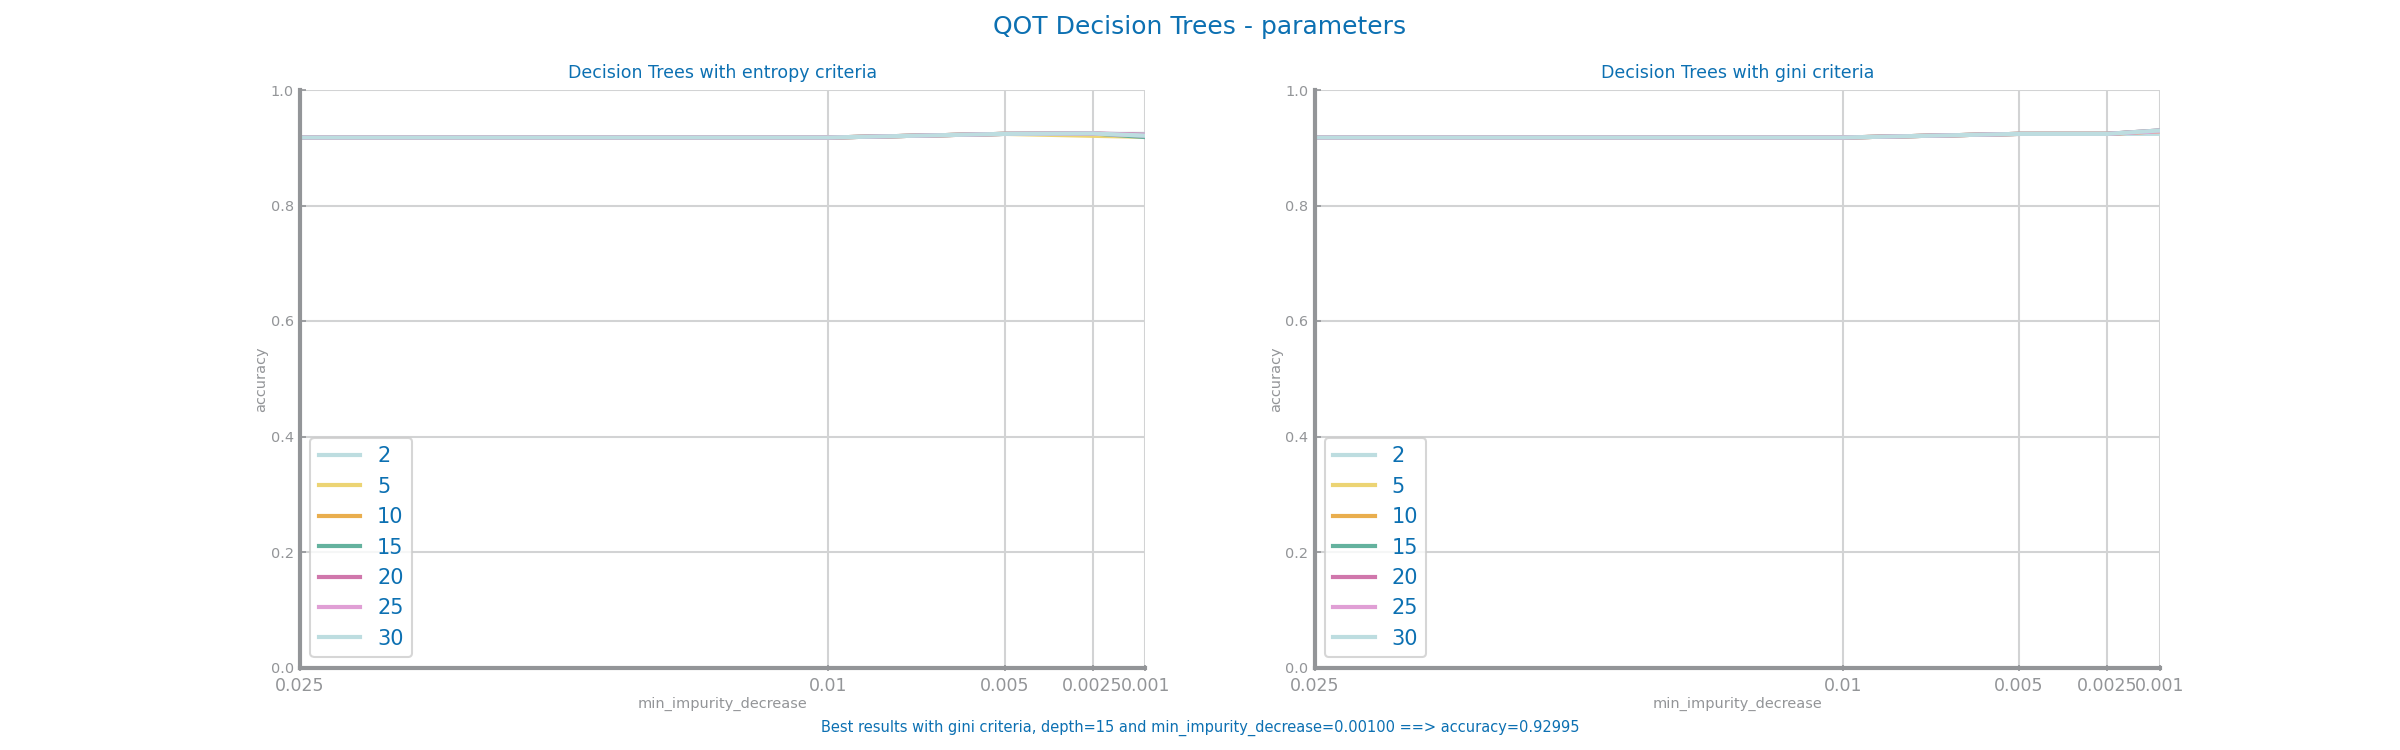
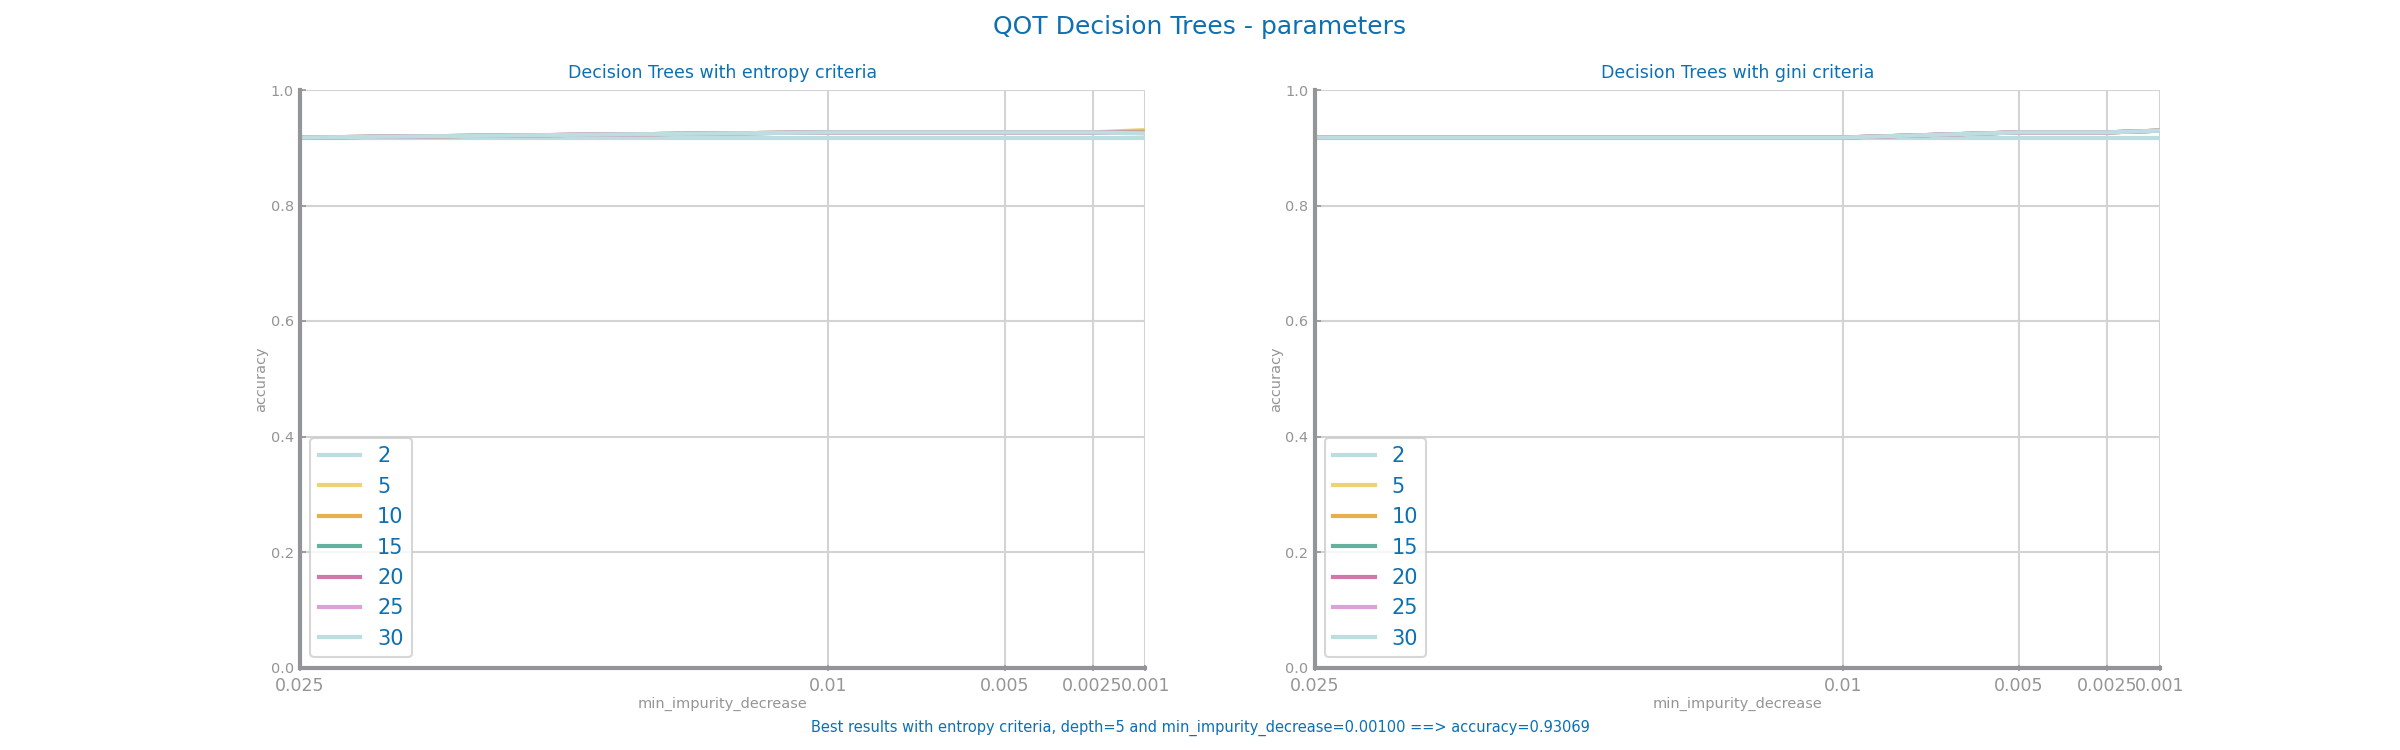
Overfitting done

Changed region(s): [[0.3438, 0.9507, 0.6562, 0.9813], [0.1875, 0.1533, 0.4688, 0.184], [0.8125, 0.1533, 0.9062, 0.184]]

diff --git a/Labs/Lab04/HFCR_decisiontrees.py b/Labs/Lab04/HFCR_decisiontrees.py
@@ -27,15 +27,20 @@ best = ('',  0, 0.0)
 best_model = ()
 last_best = 0
 best_tree = None
+overfit_values = {}
 
 plt.figure()
 fig, axs = plt.subplots(1, 2, figsize=(16, 5), squeeze=False)
 for k in range(len(criteria)):
     f = criteria[k]
-    values = {}
+    values = {} 
+    overfit_values[f] = {}
     for d in max_depths:
         yvalues = []
+        train_acc_values = []
+        test_acc_values = []
         for imp in min_impurity_decrease:
+            best_iteration_train_accuracy = 0
             best_iteration_accuracy = 0
             for model in splitList:
                 trnX, trnY = X[model[0]], y[model[0]]
@@ -44,13 +49,17 @@ for k in range(len(criteria)):
                 tree = DecisionTreeClassifier(min_samples_leaf=1, max_depth=d, criterion=f, min_impurity_decrease=imp)
                 tree.fit(trnX, trnY)
                 prdY = tree.predict(tstX)
+                prd_trainY = tree.predict(trnX)
 
                 iteration_accuracy = metrics.accuracy_score(tstY, prdY)
                 if iteration_accuracy > best_iteration_accuracy:
                     best_iteration_accuracy = iteration_accuracy
+                    best_iteration_train_accuracy = metrics.accuracy_score(trnY, prd_trainY)
                     model_sets = (trnX, trnY, tstX, tstY)
-                
+
             yvalues.append(best_iteration_accuracy)
+            train_acc_values.append(best_iteration_train_accuracy)
+            test_acc_values.append(best_iteration_accuracy)  
             if yvalues[-1] > last_best:
                 best = (f, d, imp)
                 best_model = tuple(model_sets)
@@ -58,6 +67,9 @@ for k in range(len(criteria)):
                 best_tree = tree
 
         values[d] = yvalues
+        overfit_values[f][d] = {}
+        overfit_values[f][d]['train'] = train_acc_values
+        overfit_values[f][d]['test'] = test_acc_values
     ds.multiple_line_chart(min_impurity_decrease, values, ax=axs[0, k], title='Decision Trees with %s criteria'%f,
                            xlabel='min_impurity_decrease', ylabel='accuracy', percentage=True)
 
@@ -65,6 +77,18 @@ print('Best results achieved with %s criteria, depth=%d and min_impurity_decreas
 fig.text(0.5, 0.03, 'Best results with %s criteria, depth=%d and min_impurity_decrease=%1.5f ==> accuracy=%1.5f'%(best[0], best[1], best[2], last_best), fontsize=7, ha='center', va='center')
 plt.suptitle('HFCR Decision Trees - parameters')
 plt.savefig(graphsDir + 'HFCR Decision Trees - parameters')
+
+plt.figure()
+fig, axs = plt.subplots(4, 4, figsize=(32, 16), squeeze=False)
+i = 0
+for k in range(len(criteria)):
+    f = criteria[k]
+    for d in max_depths:
+        ds.multiple_line_chart(min_impurity_decrease, overfit_values[f][d], ax=axs[i // 4, i % 4], title='Overfitting for max_depth = %d with %s criteria'%(d, f), xlabel='min_impurity_decrease', ylabel='accuracy', percentage=True)
+        i += 1
+    i += 1
+plt.suptitle('HFCR Overfitting')
+plt.savefig(graphsDir + 'HFCR Overfitting')
 
 from sklearn.tree import export_graphviz
 labels_features = list(data.columns.values)

diff --git a/Labs/Lab04/QOT_decisiontrees.py b/Labs/Lab04/QOT_decisiontrees.py
@@ -24,25 +24,35 @@ criteria = ['entropy', 'gini']
 best = ('',  0, 0.0)
 last_best = 0
 best_tree = None
+overfit_values = {}
 
 plt.figure()
 fig, axs = plt.subplots(1, 2, figsize=(16, 5), squeeze=False)
 for k in range(len(criteria)):
     f = criteria[k]
     values = {}
+    overfit_values[f] = {}
     for d in max_depths:
         yvalues = []
+        train_acc_values = []
+        test_acc_values = []
         for imp in min_impurity_decrease:
             tree = DecisionTreeClassifier(min_samples_leaf=1, max_depth=d, criterion=f, min_impurity_decrease=imp)
             tree.fit(trnX, trnY)
             prdY = tree.predict(tstX)
+            prd_trainY = tree.predict(trnX)
             yvalues.append(metrics.accuracy_score(tstY, prdY))
+            train_acc_values.append(metrics.accuracy_score(trnY, prd_trainY))
+            test_acc_values.append(metrics.accuracy_score(tstY, prdY))
             if yvalues[-1] > last_best:
                 best = (f, d, imp)
                 last_best = yvalues[-1]
                 best_tree = tree
 
         values[d] = yvalues
+        overfit_values[f][d] = {}
+        overfit_values[f][d]['train'] = train_acc_values
+        overfit_values[f][d]['test'] = test_acc_values
     ds.multiple_line_chart(min_impurity_decrease, values, ax=axs[0, k], title='Decision Trees with %s criteria'%f,
                            xlabel='min_impurity_decrease', ylabel='accuracy', percentage=True)
 
@@ -50,6 +60,18 @@ print('Best results achieved with %s criteria, depth=%d and min_impurity_decreas
 fig.text(0.5, 0.03, 'Best results with %s criteria, depth=%d and min_impurity_decrease=%1.5f ==> accuracy=%1.5f'%(best[0], best[1], best[2], last_best), fontsize=7, ha='center', va='center')
 plt.suptitle('QOT Decision Trees - parameters')
 plt.savefig(graphsDir + 'QOT Decision Trees - parameters')
+
+plt.figure()
+fig, axs = plt.subplots(4, 4, figsize=(32, 16), squeeze=False)
+i = 0
+for k in range(len(criteria)):
+    f = criteria[k]
+    for d in max_depths:
+        ds.multiple_line_chart(min_impurity_decrease, overfit_values[f][d], ax=axs[i // 4, i % 4], title='Overfitting for max_depth = %d with %s criteria'%(d, f), xlabel='min_impurity_decrease', ylabel='accuracy', percentage=True)
+        i += 1
+    i += 1
+plt.suptitle('QOT Overfitting')
+plt.savefig(graphsDir + 'QOT Overfitting')
 
 from sklearn.tree import export_graphviz
 
